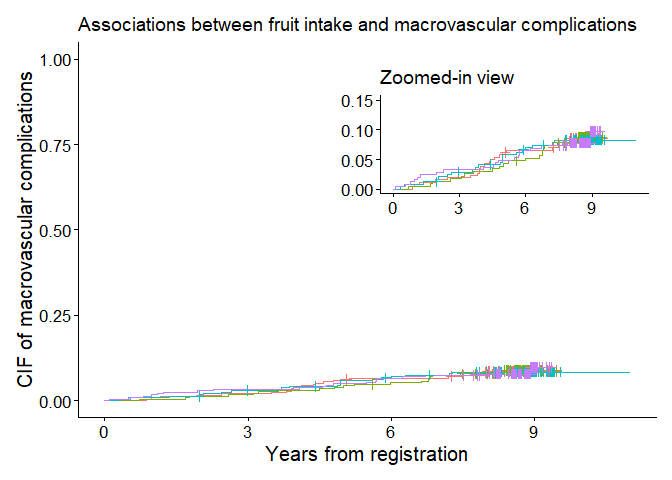
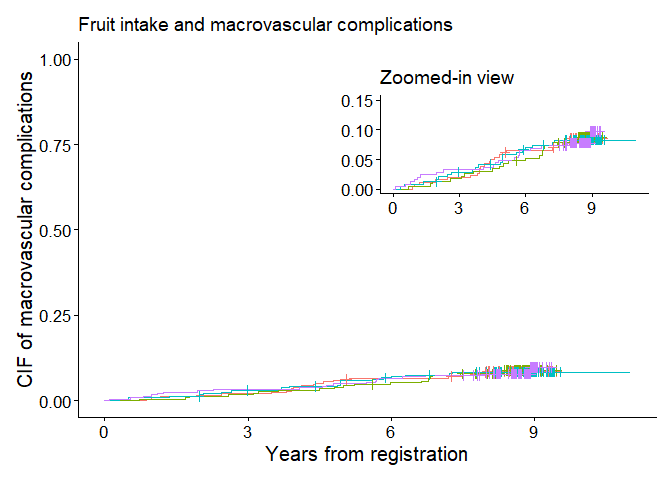
README

Changed region(s): [[0.0938, 0.0312, 0.9688, 0.0625]]

diff --git a/README.md b/README.md
@@ -9,7 +9,12 @@
 
 ## Quick start
 
+This package is a compact and unified toolkit for Kaplan–Meier /
+Aalen–Johansen curves, visualization, and direct polytomous regression
+based on polytomous log odds products in R.
+
 ``` r
+library(cifmodeling)
 data(diabetes.complications)
 cifplot(Event(t,epsilon) ~ fruitq, data=diabetes.complications, 
         outcome.type="COMPETING-RISK", printEachEvent=TRUE)
@@ -22,7 +27,7 @@ cumulative incidence function (CIF) curves. In competing risks data,
 censoring is often coded as 0, events of interest as 1, and competing
 risks as 2. The variable `epsilon` in `diabetes.complications` data
 frame represents the occurrence of competing risks according to this
-coding scheme. By specifying `printEachEvent=`, the CIF curve for
+coding scheme. By specifying `printEachEvent=TRUE`, the CIF curve for
 diabetic retinopathy (`epsilon=1`) is output on the left, and the CIF
 curve for macrovascular complications (`epsilon=2`) is output on the
 right.
@@ -245,7 +250,7 @@ output2 <- cifplot(Event(t,epsilon) ~ fruitq,
 #> NULL
 output3 <- list(a=output1, b=output2)
 cifpanel(plots = output3,
-         title.plot = c("Associations between fruit intake and macrovascular complications", "Zoomed-in view"),
+         title.plot = c("Fruit intake and macrovascular complications", "Zoomed-in view"),
          inset.panel = TRUE,
          inset.left = 0.40, inset.bottom = 0.45,
          inset.right = 1.00, inset.top = 0.95,
@@ -260,7 +265,7 @@ the same output as above.
 
 ``` r
 cifpanel(
- title.plot = c("Associations between fruit intake and macrovascular complications", "Zoomed-in view"),
+ title.plot = c("Fruit intake and macrovascular complications", "Zoomed-in view"),
  inset.panel = TRUE,
  formula = Event(t, epsilon) ~ fruitq,
  data = diabetes.complications,
@@ -451,8 +456,10 @@ data(diabetes.complications)
 diabetes.complications$fruitq1 <- ifelse(
   diabetes.complications$fruitq == "Q1","Q1","Q2 to Q4"
 )
-cifplot(Event(t,epsilon)~fruitq+fruitq1, data=diabetes.complications, outcome.type="COMPETING-RISK",
-        addConfidenceInterval=TRUE, addCensorMark=FALSE, addCompetingRiskMark=FALSE, printEachVar=TRUE)
+cifplot(Event(t,epsilon)~fruitq+fruitq1, data=diabetes.complications, 
+        outcome.type="COMPETING-RISK",
+        addConfidenceInterval=TRUE, addCensorMark=FALSE, 
+        addCompetingRiskMark=FALSE, printEachVar = TRUE)
 ```
 
 <img src="man/figures/README-example1-1-1.png" width="100%" />
@@ -469,9 +476,11 @@ by calculating Aalen–Johansen estimator stratified by fruitq1. Then,
 arguments are also used to customize the axis labels.
 
 ``` r
-output1 <- cifcurve(Event(t,epsilon)~fruitq1, data=diabetes.complications, outcome.type="COMPETING-RISK")
-cifplot(output1, addConfidenceInterval=FALSE, addEstimateTable=TRUE, addCensorMark=TRUE, 
-        addCompetingRiskMark=FALSE, label.y="CIF of diabetic retinopathy", label.x="Years from registration")
+output1 <- cifcurve(Event(t,epsilon)~fruitq1, data=diabetes.complications, 
+                    outcome.type="COMPETING-RISK")
+cifplot(output1, addConfidenceInterval=FALSE, addEstimateTable=TRUE, 
+        addCensorMark=TRUE, addCompetingRiskMark=FALSE, 
+        label.y="CIF of diabetic retinopathy", label.x="Years from registration")
 ```
 
 <img src="man/figures/README-example1-2-1.png" width="100%" />
@@ -507,9 +516,9 @@ corresponding to each label in `label.strata`. The levels specified in
 to `style="FRAMED"` specification.
 
 ``` r
-cifplot(Event(t,epsilon)~fruitq1, data=diabetes.complications, outcome.type="COMPETING-RISK", 
-        addConfidenceInterval=FALSE, addEstimateTable=TRUE, addCensorMark=FALSE, 
-        addCompetingRiskMark=TRUE, competing.risk.time=output2, 
+cifplot(Event(t,epsilon)~fruitq1, data=diabetes.complications, 
+        outcome.type="COMPETING-RISK", addConfidenceInterval=FALSE, addEstimateTable=TRUE, 
+        addCensorMark=FALSE, addCompetingRiskMark=TRUE, competing.risk.time=output2, 
         label.y="CIF of diabetic retinopathy", label.x="Years from registration", 
         label.strata=c("High intake","Low intake"), level.strata=c("Q2 to Q4","Q1"), 
         order.strata=c("Q1", "Q2 to Q4"), style="FRAMED")
